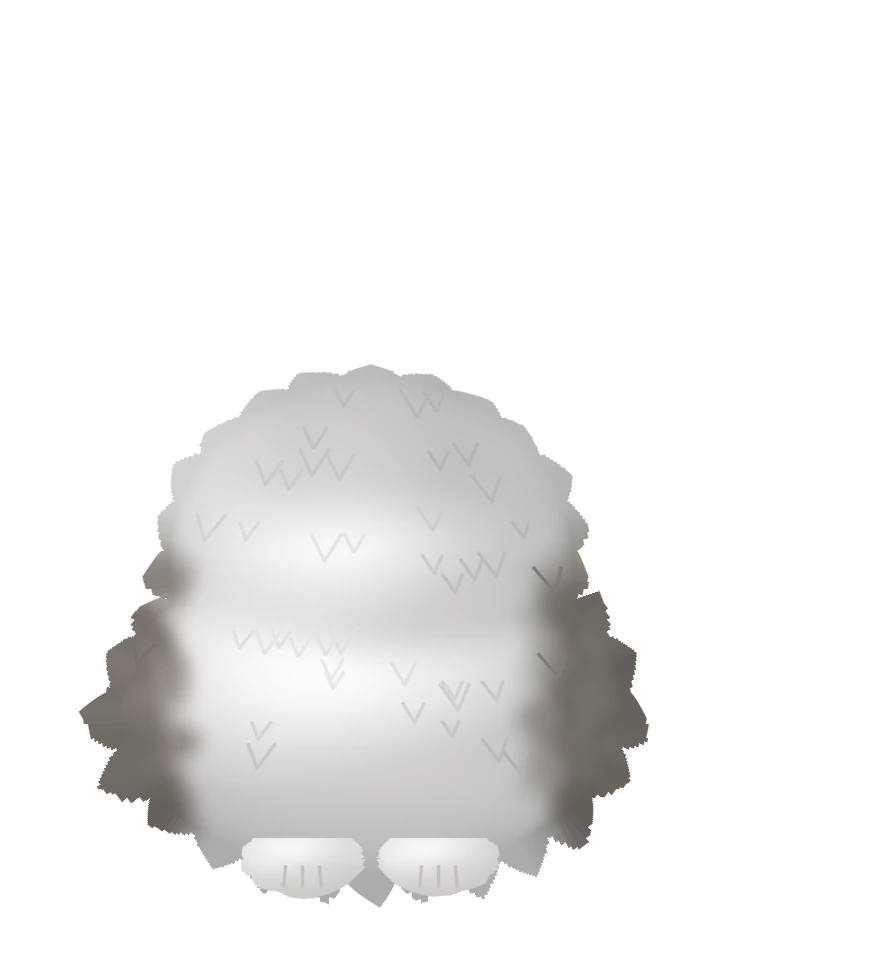
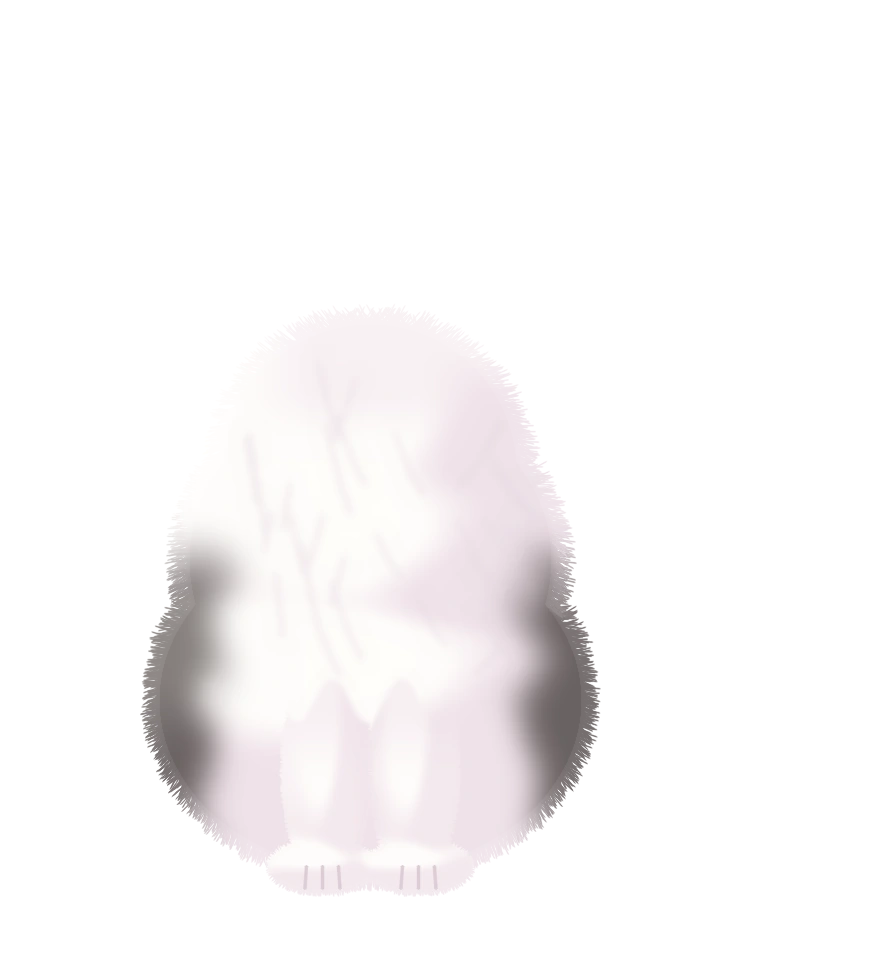
Playground: Ana repainted in Tororo's style (no outlines, airbrushed shading with pink shadows, fine fuzzy edges, Tororo-style eyes)
Claude-Session: https://claude.ai/code/session_01W4x6f7KtFbhsBZfqVxHVQA

Changed region(s): [[0.091, 0.3673, 0.7281, 0.9184]]

diff --git a/william/tpl.html b/william/tpl.html
@@ -740,44 +740,50 @@ function drawAna(t) {
 	c.fillStyle = 'rgba(60,30,40,.26)'; c.beginPath(); c.ellipse(h * 0.05, 2, h * 0.42, h * 0.04, 0, 0, Math.PI * 2); c.fill();
 	c.scale(k, k); c.translate(-370, -890);
 	// しっぽ（つけ根を中心に ふる。ごはんのときは 速く）
-	c.save(); c.translate(560, 800); c.rotate(reduce ? 0 : Math.sin(t / (fast ? 240 : 1400)) * (fast ? 0.1 : 0.05)); c.drawImage(I.tail, -560, -800); c.restore();
+	c.save(); c.translate(520, 850); c.rotate(reduce ? 0 : Math.sin(t / (fast ? 240 : 1400)) * (fast ? 0.09 : 0.045)); c.drawImage(I.tail, -520, -850); c.restore();
 	// 体（足もとを中心に 呼吸で ふくらむ。食べるときは 少し前へ）
 	c.save(); c.translate(370, 890); c.scale(1 + br * 0.006, 1 + br * 0.01 - dip * 0.03); c.drawImage(I.body, -370, -890); c.restore();
 	// 頭（首を中心に かたむく・上を向く・おさらへ下げる）。耳は 頭のうしろで、つけ根を中心に ぴくっ
-	c.save(); c.translate(370 - dip * 60 + lx * 10 * (1 - dip), 480 - br * 3 - up * 10 + dip * 80 + chew * 5 + ly * 6 * (1 - dip)); c.rotate(sway * 0.03 - dip * 0.24 + lx * 0.035 * (1 - dip)); c.scale(1, 1 + up * 0.02); c.translate(-370, -480);
+	c.save(); c.translate(370 - dip * 70 + lx * 8 * (1 - dip), 372 - br * 3 - up * 8 + dip * 150 + chew * 5 + ly * 5 * (1 - dip)); c.rotate(sway * 0.03 - dip * 0.3 + lx * 0.035 * (1 - dip)); c.scale(1, 1 + up * 0.02); c.translate(-370, -372);
 	{ const tw = (t % 6100) / 260, a1 = tw < 1 ? Math.sin(tw * Math.PI) : 0, tw2 = ((t + 2700) % 8300) / 260, a2 = tw2 < 1 ? Math.sin(tw2 * Math.PI) : 0;
-	  for (const [sx, px, py, a] of [[-1, 260, 240, a1], [1, 480, 240, a2]]) { c.save(); c.translate(px, py); c.rotate(sx * (a * 0.16 + dip * 0.14 - up * 0.07)); c.translate(-px, -py); c.beginPath(); c.rect(sx < 0 ? -200 : 370, -200, 570, 1200); c.clip(); c.drawImage(I.ears, -lx * 7, -ly * 5); c.restore(); } }
+	  for (const [sx, px, py, a] of [[-1, 290, 190, a1], [1, 450, 190, a2]]) { c.save(); c.translate(px, py); c.rotate(sx * (a * 0.16 + dip * 0.14 - up * 0.07)); c.translate(-px, -py); c.beginPath(); c.rect(sx < 0 ? -200 : 370, -200, 570, 1200); c.clip(); c.drawImage(I.ears, -lx * 6, -ly * 4); c.restore(); } }
 	c.drawImage(I.head, 0, 0);
-	c.save(); c.translate(lx * 13, ly * 9);  // 顔の部品（目・鼻・口・ひげ）は 頭より多く動く
-	c.fillStyle = '#eda2b4'; c.strokeStyle = '#c8869a'; c.lineWidth = 1.5; c.beginPath(); c.moveTo(355, 387); c.quadraticCurveTo(370, 383, 385, 387); c.quadraticCurveTo(378, 402, 370, 404); c.quadraticCurveTo(362, 402, 355, 387); c.fill(); c.stroke();  // 鼻
-	// 目：大きく まるい こはく色の目（顔の下より・はなして置く＝かわいい顔）。ふだんは 上まぶたが少し下りた おっとりした目
-	for (const [sx, ex, ey] of [[-1, 296, 350], [1, 444, 350]]) {
-		c.save(); c.translate(ex, ey); c.rotate(sx * -0.06);
-		const shape = () => { c.beginPath(); c.ellipse(0, 0, 36, 33, 0, 0, Math.PI * 2); };
-		shape(); c.lineWidth = 6; c.strokeStyle = '#3b312c'; c.stroke(); c.save(); shape(); c.clip();
-		const g = c.createRadialGradient(0, 4, 4, 0, 0, 36); g.addColorStop(0, '#c9cc66'); g.addColorStop(0.5, '#e0b744'); g.addColorStop(1, '#b07a1e'); c.fillStyle = g; c.fillRect(-40, -38, 80, 76);
-		c.fillStyle = '#17120f'; c.beginPath(); c.ellipse(lx * 5, 1 + ly * 4, 15 + up * 5, 24, 0, 0, Math.PI * 2); c.fill();  /* 目玉も ポインターを追う */
-		c.fillStyle = 'rgba(255,255,255,.95)'; c.beginPath(); c.arc(-10, -11, 7.5, 0, Math.PI * 2); c.fill(); c.beginPath(); c.arc(9, 12, 3.2, 0, Math.PI * 2); c.fill();
-		const ly2 = -36 + Math.max(lid, 0.16 * (1 - up)) * 72; c.fillStyle = '#a8a39f'; c.fillRect(-40, -40, 80, ly2 + 40); c.strokeStyle = '#3b312c'; c.lineWidth = 4; c.beginPath(); c.moveTo(-40, ly2 - 3); c.quadraticCurveTo(0, ly2 + 5, 40, ly2 - 3); c.stroke();
-		c.restore(); c.restore();
+	c.save(); c.translate(lx * 11, ly * 7);  // 顔の部品（目・鼻・口・ひげ）は 頭より多く動く
+	// 目：Tororo と同じ描き方（太い黒ふちなし。細い灰色のまぶたの線、こはく色に 放射状のすじ、まるい黒目）
+	for (const [sx, ex, ey] of [[-1, 320, 262], [1, 420, 262]]) {
+		c.save(); c.translate(ex, ey); c.rotate(sx * -0.08);
+		const open = 1 - Math.max(lid, 0.12 * (1 - up)), ry = 19 * open + 0.5;
+		const shape = () => { c.beginPath(); c.moveTo(-23, 2); c.quadraticCurveTo(0, -ry * 2 + 2, 23, 0); c.quadraticCurveTo(0, ry * 1.9, -23, 2); c.closePath(); };
+		if (open > 0.12) { c.save(); shape(); c.clip();
+			c.fillStyle = '#fbf7f4'; c.fillRect(-26, -24, 52, 48);
+			const g = c.createRadialGradient(lx * 4, ly * 3, 3, lx * 4, ly * 3, 19); g.addColorStop(0, '#d8a23a'); g.addColorStop(0.7, '#c98a2a'); g.addColorStop(1, '#8f5d1a'); c.fillStyle = g; c.beginPath(); c.arc(lx * 4, ly * 3, 18.5, 0, Math.PI * 2); c.fill();
+			c.strokeStyle = 'rgba(120,76,20,.45)'; c.lineWidth = 1; for (let i = 0; i < 28; i++) { const a = i * Math.PI / 14; c.beginPath(); c.moveTo(lx * 4 + Math.cos(a) * 10, ly * 3 + Math.sin(a) * 10); c.lineTo(lx * 4 + Math.cos(a) * 18, ly * 3 + Math.sin(a) * 18); c.stroke(); }
+			c.fillStyle = '#120e0c'; c.beginPath(); c.arc(lx * 4, ly * 3, 10.5 + up * 2.5, 0, Math.PI * 2); c.fill();
+			c.fillStyle = 'rgba(255,255,255,.9)'; c.beginPath(); c.arc(lx * 4 - 5, ly * 3 - 6, 3.2, 0, Math.PI * 2); c.fill();
+			c.restore(); }
+		c.strokeStyle = '#8b858c'; c.lineWidth = 3; c.lineCap = 'round'; c.beginPath(); c.moveTo(-24, 3); c.quadraticCurveTo(0, -ry * 2 + 2, 24, 0); c.stroke();            // 上まぶた
+		c.strokeStyle = 'rgba(139,133,140,.6)'; c.lineWidth = 1.6; c.beginPath(); c.moveTo(-22, 3); c.quadraticCurveTo(0, ry * 1.9, 23, 1); c.stroke();                  // 下まぶた
+		c.restore();
 	}
-	// 口：ω の形。食べるときは あけて もぐもぐ、ぺろっ は 小さい舌
-	c.strokeStyle = '#8e7480'; c.lineWidth = 2.6; c.lineCap = 'round';
-	if (mouth > 0.08) { c.fillStyle = '#8a3a48'; c.beginPath(); c.ellipse(370, 424 + mouth * 5, 11 + mouth * 5, 3 + mouth * 11, 0, 0, Math.PI * 2); c.fill(); c.fillStyle = '#ee9aa6'; c.beginPath(); c.ellipse(370, 430 + mouth * 9, 7, 2 + mouth * 5, 0, 0, Math.PI * 2); c.fill(); }
-	else { c.beginPath(); c.moveTo(370, 404); c.lineTo(370, 414); c.quadraticCurveTo(360, 428, 346, 419); c.moveTo(370, 414); c.quadraticCurveTo(380, 428, 394, 419); c.stroke();
-		if (lick > 0.05) { c.fillStyle = '#ee9aa6'; c.strokeStyle = '#d27a88'; c.lineWidth = 1.2; c.beginPath(); c.moveTo(362, 420); c.quadraticCurveTo(360, 420 + lick * 20, 370, 421 + lick * 22); c.quadraticCurveTo(380, 420 + lick * 20, 378, 420); c.closePath(); c.fill(); c.stroke(); } }
-	// ひげ
-	c.strokeStyle = 'rgba(255,255,255,.9)'; c.lineWidth = 1.4; c.lineCap = 'round';
-	for (const sx of [-1, 1]) for (let i = 0; i < 4; i++) { c.beginPath(); c.moveTo(370 + sx * 48, 408 + i * 6); c.quadraticCurveTo(370 + sx * 150, 396 + i * 14, 370 + sx * (250 + i * 8), 386 + i * 28); c.stroke(); }
+	// 鼻（やわらかいピンク）・口（細い線）。食べるときは あけて もぐもぐ、ぺろっ は 舌
+	{ const g = c.createLinearGradient(0, 290, 0, 308); g.addColorStop(0, '#f3b3bd'); g.addColorStop(1, '#de8f9e'); c.fillStyle = g; c.beginPath(); c.moveTo(357, 291); c.quadraticCurveTo(370, 286, 383, 291); c.quadraticCurveTo(378, 305, 370, 308); c.quadraticCurveTo(362, 305, 357, 291); c.fill(); }
+	c.strokeStyle = '#b79aa6'; c.lineWidth = 2; c.lineCap = 'round';
+	if (mouth > 0.08) { c.fillStyle = '#c2596b'; c.beginPath(); c.ellipse(370, 322 + mouth * 5, 12 + mouth * 4, 3 + mouth * 12, 0, 0, Math.PI * 2); c.fill(); c.fillStyle = '#ef9aa8'; c.beginPath(); c.ellipse(370, 328 + mouth * 9, 8, 2 + mouth * 6, 0, 0, Math.PI * 2); c.fill(); }
+	else { c.beginPath(); c.moveTo(370, 308); c.lineTo(370, 316); c.quadraticCurveTo(361, 327, 349, 320); c.moveTo(370, 316); c.quadraticCurveTo(379, 327, 391, 320); c.stroke();
+		if (lick > 0.05) { c.fillStyle = '#ef9aa8'; c.beginPath(); c.moveTo(362, 321); c.quadraticCurveTo(360, 321 + lick * 20, 370, 322 + lick * 22); c.quadraticCurveTo(380, 321 + lick * 20, 378, 321); c.closePath(); c.fill(); } }
+	// ひげ（細い白）と、ひげのつけ根の点
+	c.strokeStyle = 'rgba(255,255,255,.95)'; c.lineWidth = 1.2;
+	for (const sx of [-1, 1]) { for (let i = 0; i < 4; i++) { c.beginPath(); c.moveTo(370 + sx * 40, 312 + i * 5); c.quadraticCurveTo(370 + sx * 120, 300 + i * 12, 370 + sx * (205 + i * 7), 292 + i * 24); c.stroke(); }
+		c.fillStyle = 'rgba(200,190,200,.7)'; for (let i = 0; i < 6; i++) { c.beginPath(); c.arc(370 + sx * (26 + (i % 3) * 9), 312 + Math.floor(i / 3) * 8, 1.1, 0, Math.PI * 2); c.fill(); } }
 	c.restore();
 	c.restore();
 	// ごはんのおさら（体の左まえ）
-	{ const bx = 0, by = 0; c.save(); c.translate(70, 872); c.scale(1.9, 1.9); c.fillStyle = '#d9c7b0'; c.beginPath(); c.ellipse(bx, by + 6, 46, 11, 0, 0, Math.PI * 2); c.fill();
+	{ const bx = 0, by = 0; c.save(); c.translate(110, 874); c.scale(1.7, 1.7); c.fillStyle = '#d9c7b0'; c.beginPath(); c.ellipse(bx, by + 6, 46, 11, 0, 0, Math.PI * 2); c.fill();
 	  c.fillStyle = '#f4ead9'; c.beginPath(); c.moveTo(bx - 46, by - 4); c.quadraticCurveTo(bx - 40, by + 16, bx, by + 16); c.quadraticCurveTo(bx + 40, by + 16, bx + 46, by - 4); c.closePath(); c.fill();
 	  c.fillStyle = '#e3d3bb'; c.beginPath(); c.ellipse(bx, by - 4, 46, 10, 0, 0, Math.PI * 2); c.fill();
 	  if (ANA.food > 0.02) { c.save(); c.beginPath(); c.ellipse(bx, by - 4, 42, 8.5, 0, 0, Math.PI * 2); c.clip(); const n = Math.ceil(26 * ANA.food); for (let i = 0; i < n; i++) { const a = i * 2.39996, r = Math.sqrt((i + 0.5) / 26); c.fillStyle = i % 3 ? '#a86f3e' : '#8f5a30'; c.beginPath(); c.ellipse(bx + Math.cos(a) * r * 38, by - 5 + Math.sin(a) * r * 7 - ANA.food * 3, 5.5, 4, 0, 0, Math.PI * 2); c.fill(); } c.restore(); }
 	  c.fillStyle = '#b98a8f'; c.font = '700 11px "Kiwi Maru", sans-serif'; c.textAlign = 'center'; c.fillText('ANA', bx, by + 10); c.restore(); }
-	const wk = (t - ANA.wantT) / 3200; if (wk >= 0 && wk < 1) { const a = Math.min(1, wk * 6, (1 - wk) * 6); c.globalAlpha = a; c.fillStyle = 'rgba(255,255,255,.95)'; c.strokeStyle = '#2b2522'; c.lineWidth = 4; const bx = 470, by = 70; c.beginPath(); c.ellipse(bx, by, 150, 50, 0, 0, Math.PI * 2); c.fill(); c.stroke(); c.beginPath(); c.arc(bx - 60, by + 66, 11, 0, Math.PI * 2); c.fill(); c.stroke(); c.fillStyle = '#2b2522'; c.font = '500 40px "Kiwi Maru", sans-serif'; c.textAlign = 'center'; c.textBaseline = 'middle'; c.fillText('ごはん まだ？', bx, by + 2); c.globalAlpha = 1; }
+	const wk = (t - ANA.wantT) / 3200; if (wk >= 0 && wk < 1) { const a = Math.min(1, wk * 6, (1 - wk) * 6); c.globalAlpha = a; c.fillStyle = 'rgba(255,255,255,.95)'; c.strokeStyle = '#2b2522'; c.lineWidth = 4; const bx = 560, by = 60; c.beginPath(); c.ellipse(bx, by, 150, 50, 0, 0, Math.PI * 2); c.fill(); c.stroke(); c.beginPath(); c.arc(bx - 60, by + 66, 11, 0, Math.PI * 2); c.fill(); c.stroke(); c.fillStyle = '#2b2522'; c.font = '500 40px "Kiwi Maru", sans-serif'; c.textAlign = 'center'; c.textBaseline = 'middle'; c.fillText('ごはん まだ？', bx, by + 2); c.globalAlpha = 1; }
 	c.restore();
 }
 function anaBox() { if (ANA.n < 4) return null; const sp = anaSpot(), h = anaH(); return { x: sp.x - h * 0.42, y: sp.y - h, w: h * 0.84, h }; }

diff --git a/william/ana/make_ana.py b/william/ana/make_ana.py
@@ -1,164 +1,120 @@
-# アナちゃんのキャラクター絵を 0 から描く（写真の輪郭は使わない）。出力：william/assets/ana_{tail,body,ears,head}.webp（890×980、同じ座標）
+# アナちゃんを Tororo（William）と同じ絵柄で 0 から描く。出力：william/assets/ana_{tail,body,ears,head}.webp（890×980、同じ座標）
 # 使い方: python3 william/ana/make_ana.py [プレビューを書くフォルダ]
-# 設計：
-#   - 形は 立体（だ円体の組み合わせ）として作る：まるい頭＋ほおの毛、洋なし形の体、まるい足先、羽のようなしっぽ、大きな耳
-#   - 光は 左上から。立体の向き（法線）で 明るさを決め、あごの下・体の下・右がわに 影を落とす
-#   - 毛は 先の細い毛を 1 本ずつ、立体の表面にそって（顔は鼻から外へ、胸は首から下へ）重ねる。ふちは 毛先が はみ出して ふわふわになる
-#   - かわいさ：頭を大きく、目は 顔の下より・大きく・はなして、鼻と口は 小さく まん中に
-#   - アナちゃんらしさ：灰色は 耳・ひたいの両がわ・目の外がわ・体の両わき・しっぽ。ひたいの白い筋が 口元へ広がる。胸は 白い長い毛
+# Tororo の絵柄（観察して決めたこと）：
+#   - 線（ふち取り）はない。ふちは 細い短い毛で ぼんやり
+#   - 塗りは エアブラシのように なめらか。白い毛の影は 灰色ではなく うすいピンクがかった色
+#   - 体型は 本物の猫に近い（頭は小さめ、体と足が長い）
+#   - 模様（灰色）は ふちが ぼけた やわらかい塗り
+# アナちゃんらしさ：長毛（ふちの毛が長い・ほおと胸に ゆたかな毛・太いしっぽ）、灰色は 耳・ひたいの両がわ・目の外がわ・体のわき・しっぽ、ひたいの白い筋
 import sys, os, math
 import numpy as np, cv2
 HERE = os.path.dirname(os.path.abspath(__file__)); ROOT = os.path.dirname(os.path.dirname(HERE))
 W, H = 890, 980; CX = 370
 rng = np.random.RandomState(5)
 yy, xx = np.mgrid[0:H, 0:W].astype(np.float32)
-WHITE = np.array([246, 248, 250], np.float32); GREY = np.array([138, 144, 152], np.float32); DARK = np.array([92, 96, 104], np.float32)   # BGR
-LIGHT = np.array([-0.38, -0.55, 0.74]); LIGHT /= np.linalg.norm(LIGHT)
+WHITE = np.array([251, 253, 255], np.float32); SHADOW = np.array([234, 226, 240], np.float32)      # BGR：白と、ピンクがかった影
+GREY = np.array([126, 128, 134], np.float32); DARK = np.array([98, 98, 106], np.float32)
+LIGHT = np.array([-0.3, -0.6, 0.74]); LIGHT /= np.linalg.norm(LIGHT)
+def ss(a, b, v): t = np.clip((v - a) / (b - a), 0, 1); return t * t * (3 - 2 * t)
+def lerp(a, b, k): return a * (1 - k[..., None]) + b * k[..., None]
+def noise(scale, seed): return cv2.resize(np.random.RandomState(seed).rand(H // scale + 2, W // scale + 2).astype(np.float32), (W, H), interpolation=cv2.INTER_CUBIC)
+n1 = noise(40, 1)
 
-def solid(ells):
-    """だ円体の集まり → (中かどうか, 高さ, 法線)"""
+def solid(ells, blur=22):
     h = np.zeros((H, W), np.float32)
-    for cx, cy, rx, ry, rz in ells:
-        d2 = ((xx - cx) / rx) ** 2 + ((yy - cy) / ry) ** 2
-        h = np.maximum(h, np.sqrt(np.clip(1 - d2, 0, 1)) * rz)
-    hs = cv2.GaussianBlur(h, (0, 0), 20)                                     # なめらかな ひとつの かたまりに（つなぎ目に 段を作らない）
-    gx, gy = cv2.Sobel(hs, cv2.CV_32F, 1, 0, ksize=5) / 48, cv2.Sobel(hs, cv2.CV_32F, 0, 1, ksize=5) / 48
+    for cx, cy, rx, ry, rz in ells: h = np.maximum(h, np.sqrt(np.clip(1 - ((xx - cx) / rx) ** 2 - ((yy - cy) / ry) ** 2, 0, 1)) * rz)
+    hs = cv2.GaussianBlur(h.astype(np.float32), (0, 0), blur); gx, gy = cv2.Sobel(hs, cv2.CV_32F, 1, 0, ksize=5) / 48, cv2.Sobel(hs, cv2.CV_32F, 0, 1, ksize=5) / 48
     n = np.dstack([-gx, -gy, np.ones_like(gx)]); n /= np.linalg.norm(n, axis=2, keepdims=True)
-    return h > 0, hs, n
+    return h > 0, ss(0.15, 0.62, n @ LIGHT)                                 # 形、明るさ 0〜1（左上が明るい）
 
-def shade(n, amb=0.83, k=0.2):
-    return (amb + k * np.clip(n @ LIGHT, 0, 1)).astype(np.float32)
-
-def noise(scale, seed):
-    r = np.random.RandomState(seed).rand(H // scale + 2, W // scale + 2).astype(np.float32)
-    return cv2.resize(r, (W, H), interpolation=cv2.INTER_CUBIC)
-
-def paint(mask, col, flow, n, length, width, order):
-    """mask の中に根もとをばらまき、flow の向きへ 先の細い毛を引く。order が大きい毛から先に描く（上の毛が かぶさる）"""
-    kk = cv2.GaussianBlur(mask.astype(np.float32), (0, 0), 1.0)
-    rgb = np.ascontiguousarray((col * kk[..., None]).clip(0, 255).astype(np.uint8)); al = np.ascontiguousarray((kk * 255).astype(np.uint8))
-    ys, xs = np.where(mask); idx = rng.randint(0, len(xs), n); px, py = xs[idx], ys[idx]
-    FX, FY = flow; L0 = length if isinstance(length, np.ndarray) else np.full((H, W), length, np.float32)
-    for i in np.argsort(-(order[py, px] + rng.rand(n) * 8)):
-        x, y = int(px[i]), int(py[i])
-        ang = math.atan2(FY[y, x], FX[y, x]) + (rng.rand() - 0.5) * 0.5
-        L = L0[y, x] * (0.55 + rng.rand() * 0.9); w = width * (0.6 + rng.rand() * 0.7)
-        tx, ty = x + math.cos(ang) * L, y + math.sin(ang) * L
-        bend = (rng.rand() - 0.5) * 0.22 * L; mx, my = (x + tx) / 2 - math.sin(ang) * bend, (y + ty) / 2 + math.cos(ang) * bend
-        nx, ny = -math.sin(ang) * w / 2, math.cos(ang) * w / 2
-        pts = np.array([[x + nx, y + ny], [mx + nx * 0.6, my + ny * 0.6], [tx, ty], [mx - nx * 0.6, my - ny * 0.6], [x - nx, y - ny]]) * 8
-        r = rng.rand(); c = col[y, x] * (1.05 if r > 0.78 else 0.93 if r < 0.2 else 1 + (rng.rand() - 0.5) * 0.05)   # 明るい毛・影の毛を まぜる
-        cv2.fillConvexPoly(rgb, pts.astype(np.int32), tuple(float(v) for v in c.clip(0, 255)), cv2.LINE_AA, 3); cv2.fillConvexPoly(al, pts.astype(np.int32), 255, cv2.LINE_AA, 3)
+def soft(mask, lit, grey, fuzz, extra_shadow=None):
+    """なめらかな塗り＋ふちの細い毛。lit=明るさ、grey=灰色の模様 0〜1、fuzz=ふちの毛の長さ（画素。場所ごと）"""
+    k = lit if extra_shadow is None else lit * (1 - extra_shadow)
+    col = lerp(lerp(np.zeros((H, W, 3), np.float32) + SHADOW, np.zeros((H, W, 3), np.float32) + WHITE, k), lerp(np.zeros((H, W, 3), np.float32) + DARK, np.zeros((H, W, 3), np.float32) + GREY, k), grey)
+    col = cv2.GaussianBlur(col, (0, 0), 3)
+    m = mask.astype(np.uint8); a = cv2.GaussianBlur(m.astype(np.float32), (0, 0), 1.6)
+    rgb = np.ascontiguousarray(col.clip(0, 255).astype(np.uint8)); al = np.ascontiguousarray((np.clip(a * 2 - 0.5, 0, 1) * 255).astype(np.uint8))
+    # ふちの細い毛：輪郭から 外へ、1 本ずつ（色は その場所の毛の色）
+    din = cv2.GaussianBlur(cv2.distanceTransform(m, cv2.DIST_L2, 5), (0, 0), 3); gx, gy = cv2.Sobel(din, cv2.CV_32F, 1, 0), cv2.Sobel(din, cv2.CV_32F, 0, 1)
+    cs, _ = cv2.findContours(m, cv2.RETR_EXTERNAL, cv2.CHAIN_APPROX_NONE)
+    for c in cs:
+        for (x, y) in c[:, 0]:
+            L0 = fuzz[y, x] if isinstance(fuzz, np.ndarray) else fuzz
+            for _ in range(2 if L0 > 9 else 1):
+                nx, ny = -gx[y, x], -gy[y, x]; d = math.hypot(nx, ny) + 1e-6; ang = math.atan2(ny / d, nx / d) + rng.uniform(-0.55, 0.55) + (0.35 if ny > -0.2 else 0) * np.sign(nx) * 0   # 外向き
+                ang += 0.5 * (1 if (math.pi / 2 - ang + math.pi) % (2 * math.pi) - math.pi > 0 else -1) * min(1, L0 / 20)                                                    # 長い毛は 重さで 下へ たれる
+                L = L0 * rng.uniform(0.35, 1.0); sx0, sy0 = x - nx / d * 3, y - ny / d * 3
+                p = (np.array([[sx0, sy0], [sx0 + math.cos(ang) * L * 0.6, sy0 + math.sin(ang) * L * 0.6], [x + math.cos(ang) * L, y + math.sin(ang) * L + L * 0.06]]) * 8).astype(np.int32)
+                c3 = tuple(float(v) for v in col[int(np.clip(sy0, 0, H - 1)), int(np.clip(sx0, 0, W - 1))].clip(0, 255))
+                cv2.polylines(rgb, [p], False, c3, 1, cv2.LINE_AA, 3); cv2.polylines(al, [p], False, 235, 1, cv2.LINE_AA, 3)
     return np.dstack([rgb, al])
 
-def flat(mask, col, tufts, ring, grav=0.5, marks=0, mark_y=(0.0, 1.0)):
-    """Tororo と同じ絵柄：なめらかな塗り＋やわらかい影。長毛は 輪郭の毛の房（とがった房が 外へ出る）と、中の 少しの房のしるしで表す"""
-    m = mask.astype(np.uint8); core = cv2.erode(m, np.ones((5, 5), np.uint8)); cs = cv2.GaussianBlur(col, (0, 0), 7)
-    dist, lab = cv2.distanceTransformWithLabels(1 - core, cv2.DIST_L2, 5, labelType=cv2.DIST_LABEL_PIXEL)
-    cyx = np.argwhere(core > 0); lut = np.zeros((lab.max() + 1, 2), np.int32); lut[lab[core > 0]] = cyx
-    ny, nx = lut[lab][..., 0], lut[lab][..., 1]
-    ys, xs = np.where(core > 0); cx, cy, w, h = xs.mean(), ys.mean(), xs.max() - xs.min(), ys.max() - ys.min()
-    th = np.arctan2(ny - cy, (nx - cx) * (h / w)); u = (th / (2 * math.pi) + 0.5) * tufts; tid = np.floor(u).astype(np.int32) % tufts; f = u - np.floor(u)
-    lens = 0.5 + 0.5 * rng.rand(tufts); skew = 0.3 + 0.4 * rng.rand(tufts)
-    prof = np.where(f < skew[tid], f / skew[tid], (1 - f) / (1 - skew[tid])) ** 0.75
-    L = ring * lens[tid] * (0.2 + 0.8 * prof) * (1 - grav + grav * (0.5 + 0.5 * np.sin(th)) * 2).clip(0.5, 1.6)
-    alpha = np.where(core > 0, 1.0, np.clip((L - (dist - 2)) / 1.4, 0, 1))
-    din = cv2.distanceTransform(core, cv2.DIST_L2, 5)
-    rgb = cs[ny, nx] * (1 - 0.07 * np.exp(-din / 14))[..., None]                         # ふちは ほんの少し暗く（立体感）
-    rgb = np.ascontiguousarray(rgb.clip(0, 255).astype(np.uint8))
-    for _ in range(marks):                                                               # 中の 房のしるし（小さな「く」の字）
-        i = rng.randint(len(xs)); x, y = xs[i], ys[i]
-        if not (mark_y[0] <= (y - ys.min()) / h <= mark_y[1]) or din[y, x] < 16: continue
-        tw = rng.uniform(16, 30); lean = (x - cx) / w * 0.8; c = tuple(float(v) for v in cs[y, x] * 0.93)
-        pts = (np.array([[x - tw / 2, y - tw * 0.9], [x + lean * tw, y], [x + tw / 2, y - tw * 0.9]]) * 8).astype(np.int32)
-        cv2.polylines(rgb, [pts], False, c, 2, cv2.LINE_AA, 3)
-    return np.dstack([rgb, (alpha * 255).astype(np.uint8)])
+def clumps(img, mask, n, ybox, size=(34, 64), strength=0.5):
+    """長い毛の重なり：うすいピンクの影で 毛の束の先（下向きの「く」）を ぼかして描く"""
+    lay = np.zeros((H, W), np.float32); ys, xs = np.where(mask & (yy > ybox[0]) & (yy < ybox[1]))
+    for _ in range(n):
+        i = rng.randint(len(xs)); x, y = xs[i], ys[i]; tw = rng.uniform(*size); th = tw * rng.uniform(0.9, 1.5); lean = (x - CX) / 300.0
+        p = (np.array([[x - tw / 2, y - th], [x - tw * 0.2 + lean * th * 0.5, y - th * 0.3], [x + lean * th, y]]) * 8).astype(np.int32)
+        cv2.polylines(lay, [p if rng.rand() < 0.5 else (p * [-1, 1] + [int(2 * (x + lean * th) * 8), 0])], False, 1.0, 4, cv2.LINE_AA, 3)
+    lay = cv2.GaussianBlur(lay, (0, 0), 4).clip(0, 1) * strength
+    white = (img[..., :3].astype(np.float32).min(axis=2) > 205) & (img[..., 3] > 200)
+    kk = (lay * white)[..., None]; img[..., :3] = (img[..., :3] * (1 - kk) + (SHADOW * 0.96) * kk).astype(np.uint8)
 
-def norm2(fx, fy):
-    m = np.hypot(fx, fy) + 1e-6; return fx / m, fy / m
-def lerp(a, b, k): return a * (1 - k[..., None]) + b * k[..., None]
-def ss(a, b, v): return np.clip((v - a) / (b - a), 0, 1) ** 2 * (3 - 2 * np.clip((v - a) / (b - a), 0, 1))
+# ---------- 体（Tororo と同じく たて長。胸の毛が ゆたかで、前足は 毛の下から出る） ----------
+bm, bl = solid([(CX, 470, 150, 150, 170), (CX, 560, 185, 170, 180), (CX, 700, 215, 175, 180)])
+legs_m, legs_l = solid([(326, 770, 44, 110, 60), (414, 770, 44, 110, 60), (322, 866, 54, 27, 50), (418, 866, 54, 27, 50)], blur=8)
+flank = ss(150, 200, np.abs(xx - CX) + n1 * 30 + (700 - yy) * 0.05) * ss(520, 600, yy)                 # 体のわきは灰色
+shadow = 0.45 * ss(450, 385, yy) * ss(150, 40, np.abs(xx - CX)) + 0.25 * ss(820, 890, yy)             # あごの下・体の下の影
+body = soft(bm, bl, cv2.GaussianBlur(flank, (0, 0), 12), np.where(yy < 640, 22.0, 16.0).astype(np.float32), shadow)
+clumps(body, bm, 46, (430, 700))
+legs = soft(legs_m, legs_l * 0.75 + 0.25, np.zeros((H, W), np.float32), 4.0, 0.5 * ss(790, 700, yy) + 0.5 * ss(22, 0, np.abs(xx - CX)) * (yy < 850))
+lb = np.ascontiguousarray(legs[..., :3])
+for cx in (322, 418):
+    for dx in (-16, 0, 16): cv2.line(lb, (int((cx + dx) * 8), 866 * 8), (int((cx + dx * 1.1) * 8), 888 * 8), (214, 204, 222), 2, cv2.LINE_AA, 3)   # 指のあいだ（うすい線）
+legs[..., :3] = lb
+# 胸の毛が 足の上に かぶさる：足は 体の毛より下の部分だけ 見える
+cover = cv2.GaussianBlur(((bm) & (yy < 700 + 22 * np.sin(xx * 0.09))).astype(np.float32), (0, 0), 3)
+k = legs[..., 3:].astype(np.float32) / 255 * (1 - cover[..., None])
+out = body.astype(np.float32); out[..., :3] = out[..., :3] * (1 - k) + legs[..., :3] * k; out[..., 3] = np.maximum(out[..., 3], k[..., 0] * 255); body = out.astype(np.uint8)
 
-n1, n2 = noise(26, 1), noise(9, 2)
-tabby = 0.5 + 0.5 * np.sin(xx * 0.11 + np.sin(yy * 0.045) * 2.4 + n1 * 5)                  # うすい しま
-grey_col = lerp(GREY[None, None], DARK[None, None], 0.5 * tabby ** 2 * (0.5 + n2 * 0.5))
+# ---------- 頭（小さめの まるい頭＋ほおの ゆたかな毛） ----------
+HX, HY = CX, 255
+hm, hl = solid([(HX, HY, 140, 118, 130), (262, 302, 68, 58, 60), (478, 302, 68, 58, 60), (HX, 322, 112, 60, 90)], blur=16)
+du = np.abs(xx - HX) + (n1 - 0.5) * 16
+blaze = 12 + 78 * ss(170, 262, yy) ** 1.4                                                            # ひたいの白い筋：上は細く、目の高さで 目の内がわまで
+g = (du > blaze).astype(np.float32) * ss(290, 250, yy - (du - 80) * 0.5)                             # 目より下は白、外がわほど 灰色が下まで
+head = soft(hm, hl, cv2.GaussianBlur(g, (0, 0), 9), np.where((yy > 285) & (np.abs(xx - HX) > 50), 20.0, 7.0).astype(np.float32), 0.25 * ss(330, 372, yy))
+clumps(head, hm, 10, (300, 372), size=(22, 40), strength=0.4)
 
-# ---------- 体（洋なし形。胸は前へ ふくらむ） ----------
-bm, bh, bn = solid([(CX, 560, 205, 185, 190), (CX, 705, 255, 170, 175), (CX, 500, 150, 120, 150)])
-edge = np.abs(xx - CX) + n1 * 26
-flank = ss(185, 235, edge + (yy - 560) * 0.06) * ss(500, 560, yy)                           # 両わきは灰色（下ほど広い）
-flank = np.maximum(flank, ss(150, 205, (xx - CX) + n1 * 22) * ss(540, 600, yy) * ss(820, 760, yy))   # 右がわは 少し広く
-bcol = lerp(np.zeros((H, W, 3), np.float32) + WHITE, grey_col, flank) * shade(bn)[..., None]
-bcol *= (1 - 0.07 * ss(0, 240, np.abs(xx - CX)) ** 2)[..., None]                               # 体の まるみ：はしへ行くほど 少し暗く
-bcol *= (1 - 0.16 * ss(560, 470, yy) * ss(210, 60, np.abs(xx - CX)))[..., None]              # あごの下の影
-bcol *= (1 - 0.10 * ss(770, 880, yy))[..., None]                                             # 体の下の影
-bflow = norm2((xx - CX) / 330.0, np.ones_like(xx))
-body = flat(bm, bcol, 30, 34, grav=0.55, marks=60, mark_y=(0.05, 0.8))
-# 足先（まるい。体の毛の下から 出る）
-pm, ph, pn = solid([(302, 858, 60, 36, 40), (438, 858, 60, 36, 40)])
-pcol = (np.zeros((H, W, 3), np.float32) + WHITE) * shade(pn, 0.88, 0.14)[..., None]
-paws = flat(pm, pcol, 14, 5, grav=0.3)
-pb = np.ascontiguousarray(paws[..., :3])
-for cx in (302, 438):
-    for dx in (-17, 0, 17): cv2.line(pb, (int((cx + dx) * 8), 866 * 8), (int((cx + dx * 1.1) * 8), 886 * 8), (196, 190, 200), 2, cv2.LINE_AA, 3)   # 指のあいだ
-paws[..., :3] = pb
-k = paws[..., 3:].astype(np.float32) / 255 * (1 - body[..., 3:].astype(np.float32) / 255 * (yy < 838)[..., None])
-body[..., :3] = (body[..., :3] * (1 - k) + paws[..., :3] * k).astype(np.uint8); body[..., 3] = np.maximum(body[..., 3], (k[..., 0] * 255).astype(np.uint8))
-
-# ---------- 頭（まるい頭＋ほおの毛） ----------
-HX, HY = CX, 330; MX, MY = CX, 395                                                           # 頭のまん中／鼻
-hm, hh, hn = solid([(HX, HY, 180, 165, 170), (238, 392, 86, 74, 80), (502, 392, 86, 74, 80), (HX, 425, 150, 84, 120)])
-du = np.abs(xx - HX) + (n1 - 0.5) * 18; v = yy
-blaze = 16 + 118 * ss(215, 372, v) ** 1.5                                                    # ひたいの白い筋：上は細く、目の高さで 目の内がわまで
-g = (du > blaze).astype(np.float32) * ss(398, 352, v - (du - 120) * 0.42)                    # 目より下は白。外がわほど 灰色が下まで
-g = cv2.GaussianBlur(np.clip(g, 0, 1), (0, 0), 5)
-hcol = lerp(np.zeros((H, W, 3), np.float32) + WHITE, grey_col, g) * shade(hn, 0.84, 0.19)[..., None]
-hcol *= (1 - 0.08 * ss(430, 500, yy) * (g < 0.5))[..., None]                                 # ほおの下は 少し影
-# 鼻すじ・口元の ふくらみ（マズル）を 少し明るく
-muz = np.exp(-(((xx - MX) / 62) ** 2 + ((yy - 412) / 40) ** 2)); hcol = np.clip(hcol * (1 + 0.05 * muz[..., None]), 0, 255)
-fx, fy = xx - MX, (yy - (MY - 30)) * 0.9; lowc = (yy > MY - 10) & (np.abs(xx - MX) > 70)
-fx, fy = np.where(lowc, (xx - MX) * 0.016, fx), np.where(lowc, 1.0, fy)
-hlen = (7 + np.clip(np.hypot(xx - MX, yy - MY) * 0.11, 0, 22)) * np.where(lowc, 1.6, 1.0)
-head = flat(hm, hcol, 26, 30, grav=0.75, marks=14, mark_y=(0.72, 0.95))
-
-# ---------- 耳（べつの部品。大きく、少し外向き。中は うすいピンクと 白い長い毛、先に 長い毛） ----------
-ears = np.zeros((H, W, 4), np.uint8); eb = np.ascontiguousarray(ears[..., :3]); ea = np.ascontiguousarray(ears[..., 3])
+# ---------- 耳（大きい。外は灰色、中は ピンクの ぼかしと 細い白い毛） ----------
+em = np.zeros((H, W), np.uint8); inner = np.zeros((H, W), np.float32); hairs = []
 for sx in (-1, 1):
     X = lambda d: HX + sx * d
-    pts = np.array([[X(46), 236], [X(150), 56], [X(226), 290]], np.float32); tip = pts[1]; cen = pts.mean(axis=0)
-    cv2.fillPoly(eb, [(pts * 8).astype(np.int32)], (128, 134, 142), cv2.LINE_AA, 3); cv2.fillPoly(ea, [(pts * 8).astype(np.int32)], 255, cv2.LINE_AA, 3)
-    inner = cen + (pts - cen) * 0.66 + [0, 12]
-    cv2.fillPoly(eb, [(inner * 8).astype(np.int32)], (188, 180, 224), cv2.LINE_AA, 3)
-    for i in range(0):
-        t = rng.rand(); q = (pts[0] if rng.rand() < 0.5 else pts[2]) * (1 - t) + tip * t; q = q + (cen - q) * rng.uniform(-0.03, 0.2)
-        L = rng.uniform(5, 12); ang = math.atan2(tip[1] - cen[1], tip[0] - cen[0]) + rng.uniform(-0.7, 0.7); gcol = rng.uniform(100, 150)
-        l2 = np.array([q, q + [math.cos(ang) * L, math.sin(ang) * L]]) * 8
-        cv2.line(eb, tuple(l2[0].astype(int)), tuple(l2[1].astype(int)), (gcol, gcol + 5, gcol + 12), 2, cv2.LINE_AA, 3); cv2.line(ea, tuple(l2[0].astype(int)), tuple(l2[1].astype(int)), 255, 2, cv2.LINE_AA, 3)
-    for i in range(4):                                                                       # 耳の先の毛
-        L = rng.uniform(18, 40); ang = math.radians(-90 + sx * rng.uniform(0, 26)); q = tip + rng.uniform(-2, 2, 2)
-        l2 = (np.array([q, q + [math.cos(ang) * L * 0.5 + sx * 2, math.sin(ang) * L * 0.5], q + [math.cos(ang) * L, math.sin(ang) * L]]) * 8).astype(np.int32)
-        cv2.polylines(eb, [l2], False, (96, 100, 108), 3, cv2.LINE_AA, 3); cv2.polylines(ea, [l2], False, 255, 3, cv2.LINE_AA, 3)
-    for i in range(12):                                                                      # 耳の中から 外へ流れる 白い毛の房
-        t = rng.uniform(0.1, 0.9); q = inner[0] * (1 - t) + inner[2] * t + [0, -rng.uniform(0, 30)]; L = rng.uniform(26, 50); ang = math.radians(-90 + sx * rng.uniform(10, 50))
-        l2 = (np.array([q, q + [math.cos(ang) * L * 0.5 + sx * 4, math.sin(ang) * L * 0.5], q + [math.cos(ang) * L, math.sin(ang) * L]]) * 8).astype(np.int32)
-        cv2.polylines(eb, [l2], False, (248, 250, 252), 3, cv2.LINE_AA, 3); cv2.polylines(ea, [l2], False, 255, 3, cv2.LINE_AA, 3)
+    pts = np.array([[X(28), 196], [X(118), 34], [X(172), 240]], np.float32); cv2.fillPoly(em, [pts.astype(np.int32)], 1)
+    cen = pts.mean(axis=0); inn = cen + (pts - cen) * 0.62 + [0, 12]; cv2.fillPoly(inner, [inn.astype(np.int32)], 1.0)
+    for i in range(34): t = rng.uniform(0.05, 0.95); q = inn[0] * (1 - t) + inn[2] * t + [0, -rng.uniform(0, 26)]; hairs.append((q, rng.uniform(22, 52), math.radians(-90 + sx * rng.uniform(6, 62)), sx, (250, 251, 253)))
+    for i in range(7): hairs.append((pts[1] + rng.uniform(-2, 2, 2), rng.uniform(10, 24), math.radians(-90 + sx * rng.uniform(0, 22)), sx, (112, 112, 120)))
+em = cv2.GaussianBlur(em.astype(np.float32), (0, 0), 3) > 0.5; _, el = solid([(HX - 112, 160, 70, 100, 40), (HX + 112, 160, 70, 100, 40)], blur=10)
+ears = soft(em, np.clip(el * 0.5 + 0.55, 0, 1), np.ones((H, W), np.float32), 5.0)
+ki = cv2.GaussianBlur(inner, (0, 0), 7)[..., None] * 0.92; pink = lerp(np.zeros((H, W, 3), np.float32) + (176, 162, 222), np.zeros((H, W, 3), np.float32) + (214, 206, 244), ss(120, 230, yy))
+ears[..., :3] = (ears[..., :3] * (1 - ki) + pink * ki).astype(np.uint8)
+eb = np.ascontiguousarray(ears[..., :3]); ea = np.ascontiguousarray(ears[..., 3])
+for q, L, ang, sx, c in hairs:
+    l2 = (np.array([q, q + [math.cos(ang) * L * 0.5 + sx * 3, math.sin(ang) * L * 0.5], q + [math.cos(ang) * L, math.sin(ang) * L]]) * 8).astype(np.int32)
+    cv2.polylines(eb, [l2], False, c, 1, cv2.LINE_AA, 3); cv2.polylines(ea, [l2], False, 255, 1, cv2.LINE_AA, 3)
 ears = np.dstack([eb, ea])
 
-# ---------- しっぽ（羽のよう。体の右うしろから 上へ） ----------
-tm = np.zeros((H, W), np.uint8); spine = []
-for s in np.linspace(0, 1, 220):
-    u = 1 - s; x = u * u * 560 + 2 * u * s * 760 + s * s * 700; y = u * u * 800 + 2 * u * s * 760 + s * s * 500
-    spine.append((x, y)); cv2.circle(tm, (int(x), int(y)), int(26 + 46 * math.sin(math.pi * min(1, 0.12 + s * 0.92)) ** 0.7), 1, -1)
-spine = np.array(spine, np.float32)
-d = (xx[..., None] - spine[None, None, ::6, 0]) ** 2 + (yy[..., None] - spine[None, None, ::6, 1]) ** 2
-ni = np.argmin(d, axis=2) * 6; sx_, sy_ = spine[ni, 0], spine[ni, 1]; nj = np.clip(ni + 6, 0, len(spine) - 1); tx_, ty_ = spine[nj, 0] - sx_, spine[nj, 1] - sy_
-rad = np.sqrt(d.min(axis=2)); core = np.clip(1 - rad / 70, 0, 1)
-tcol = lerp(DARK[None, None] * 0.92, GREY[None, None] * 1.02, ss(0.2, 1.0, core) * 0.7 + n2 * 0.25) * (0.86 + 0.2 * ss(60, 0, (xx - sx_) * 0.5 + (yy - sy_) * 0.7 + 30))[..., None]
-tail = flat(tm > 0, tcol, 30, 30, grav=0.2, marks=0)
+# ---------- しっぽ（太い羽のよう。体の右うしろから 床にそって 先が上がる） ----------
+tm = np.zeros((H, W), np.uint8); sp = []
+for s in np.linspace(0, 1, 200):
+    u = 1 - s; x = u * u * 520 + 2 * u * s * 760 + s * s * 790; y = u * u * 850 + 2 * u * s * 880 + s * s * 640
+    sp.append((x, y)); cv2.circle(tm, (int(x), int(y)), int(24 + 40 * math.sin(math.pi * min(1, 0.15 + s * 0.9)) ** 0.7), 1, -1)
+_, tl = solid([(x, y, 70, 70, 60) for x, y in sp[::12]], blur=14)
+tail = soft(tm > 0, tl * 0.8, np.ones((H, W), np.float32), 26.0)
 
 def save(img, name):
     from PIL import Image
-    Image.fromarray(cv2.cvtColor(img, cv2.COLOR_BGRA2RGBA)).save(os.path.join(ROOT, 'william', 'assets', name), quality=92, method=6)
+    Image.fromarray(cv2.cvtColor(img, cv2.COLOR_BGRA2RGBA)).save(os.path.join(ROOT, 'william', 'assets', name), quality=93, method=6)
 for nm, im in (('tail', tail), ('body', body), ('ears', ears), ('head', head)): save(im, 'ana_%s.webp' % nm)
 if len(sys.argv) > 1:
     comp = np.zeros((H, W, 3), np.float32) + (150, 170, 196)

diff --git a/william/ana/README.md b/william/ana/README.md
@@ -2,12 +2,10 @@
 
 細い毛を 1 本ずつ描いた一枚絵を作り、頭・体・しっぽの部品に分けて動かす。William のモデル（Tororo）は使わない。
 
-- `make_ana.py`：アナちゃんを 0 から描く（写真の輪郭は使わない）。
-  - 形は立体（だ円体の組み合わせ）：まるい頭＋ほおの毛、洋なし形の体、まるい足先、羽のようなしっぽ、大きな耳
-  - 光は左上から。立体の向きで明るさを決め、あごの下・体の下に影
-  - 絵柄は Tororo（William）と同じ：なめらかな塗り＋やわらかい影。長毛は 輪郭の毛の房と、中の 少しの房のしるしで表す
-  - かわいさ：頭を大きく、目は顔の下より・大きく・はなして、鼻と口は小さく
-  - アナちゃんらしさ：灰色は 耳・ひたいの両がわ・目の外がわ・体のわき・しっぽ。ひたいの白い筋が口元へ広がる。胸は白い長い毛
+- `make_ana.py`：アナちゃんを Tororo（William）と同じ絵柄で 0 から描く（写真の輪郭は使わない）。
+  - Tororo の絵柄（観察して決めたこと）：線（ふち取り）なし／ふちは細い短い毛／エアブラシのようになめらかな塗り／白い毛の影はうすいピンク／
+    本物の猫に近い体型（頭は小さめ）／模様はふちがぼけた塗り／目は細い灰色のまぶたの線・こはく色に放射状のすじ・まるい黒目
+  - アナちゃんらしさ：長毛（ふちの毛が長い、ほおと胸にゆたかな毛、太いしっぽ、耳の中と先の毛）、灰色は 耳・ひたいの両がわ・目の外がわ・体のわき・しっぽ、ひたいの白い筋
   - 出力は `william/assets/ana_{tail,body,ears,head}.webp`（同じ座標の 4 枚）
 - `tpl.html` の `drawAna`：4 枚を しっぽ → 体 → 耳 → 頭 の順に重ね、目・鼻・口・ひげを描いて動かす。動きも Tororo と同じ考え方（ポインターを追って頭が回る＝顔の部品が頭の上でずれる、目玉、まばたき、耳、しっぽ、呼吸）＋ もぐもぐ・ぺろっ
 - 作り直し：`python3 william/ana/make_ana.py` → `npm run build`
